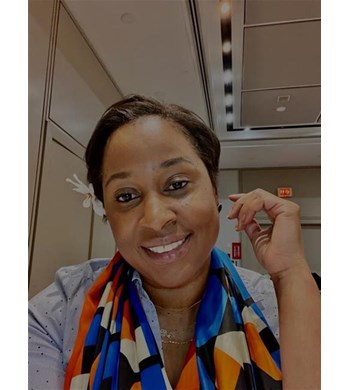
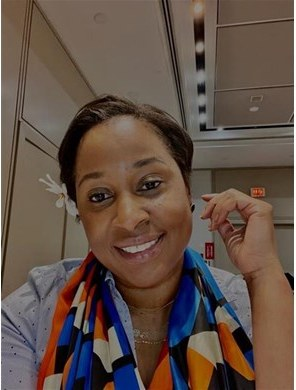
Crop the pillarbox baked into Diana's portrait
The white bands were in the JPEG itself, not the CSS \u2014 object-fit: cover was
already doing the right thing, it just had 27px of white on each side of a
350x390 canvas to work with. Cropped to the photograph: 296x390.

The two portraits now sit at 0.759 and 0.750, so cover crops essentially
nothing from either and they read as a matched pair.

width/height attributes updated with the file. Leaving them at 350x390 over a
296px image would have had the browser reserve the wrong aspect and shift the
layout as it loaded.

No resolution was gained \u2014 there is no larger original in the project, and the
frame renders around 460px wide, so this is still upscaled. Cropping does not
make that worse, it removes the bands. A higher-resolution original is the
only real improvement left here.

diff --git a/index.html b/index.html
@@ -539,7 +539,7 @@
         <p>Duncan develops restorative experiences for high-achieving professionals and the advisors who serve them. A former engineer turned burnout interventionist, he blends evidence-informed education, nervous-system regulation and destination wellness.</p>
       </article>
       <article class="person">
-        <div class="portrait"><picture><source srcset="assets/diana-st-hill.webp" type="image/webp"><img width="350" height="390" src="assets/diana-st-hill.jpg" alt="Diana St. Hill" loading="lazy"></picture></div>
+        <div class="portrait"><picture><source srcset="assets/diana-st-hill.webp" type="image/webp"><img width="296" height="390" src="assets/diana-st-hill.jpg" alt="Diana St. Hill" loading="lazy"></picture></div>
         <h3>Diana St. Hill</h3>
         <p class="role">Facilitator &middot; Program &amp; journey direction</p>
         <p class="affil">Program Director, Discover Saint Lucia WELL</p>
